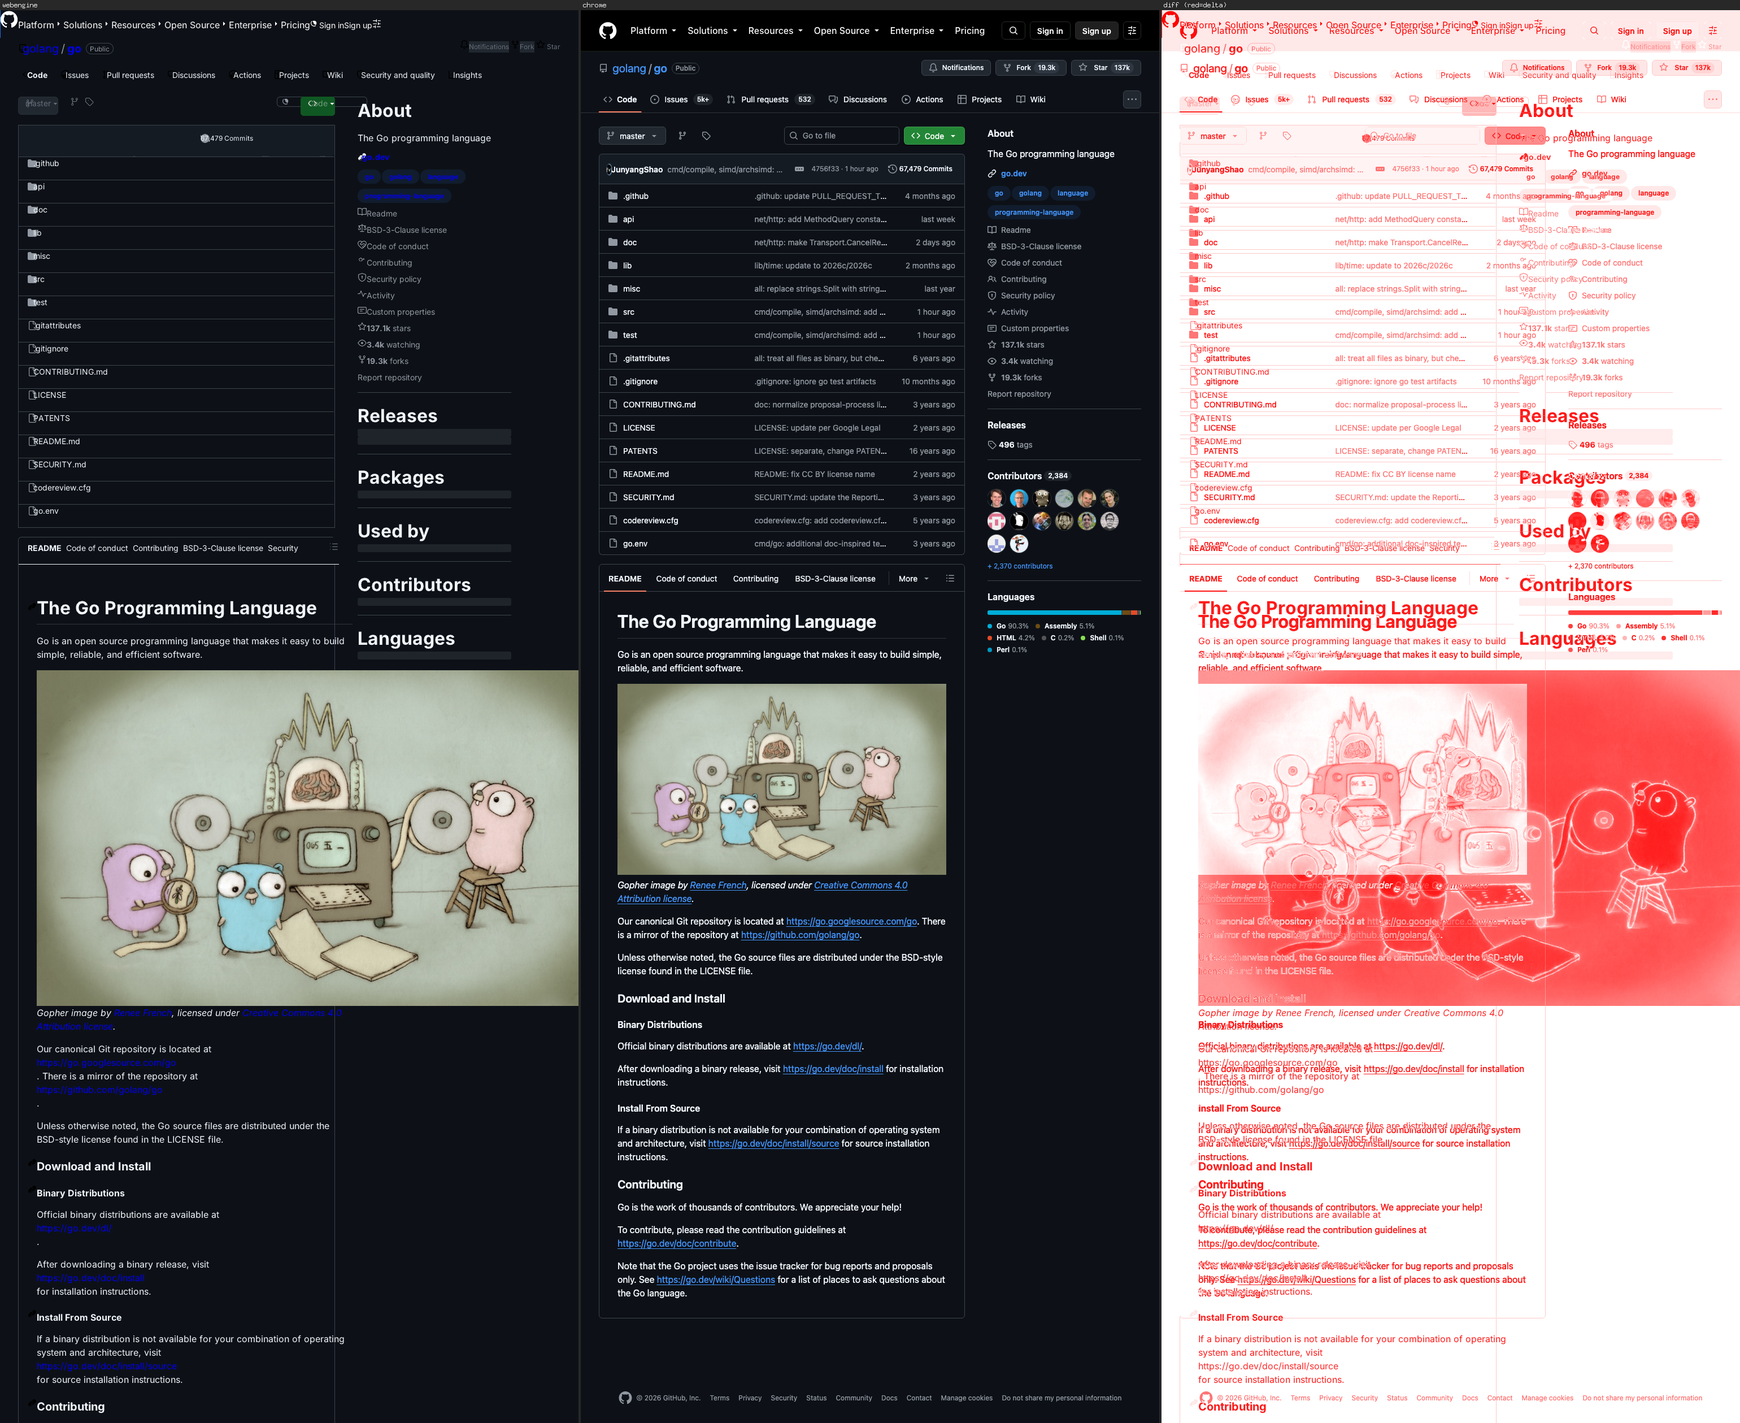
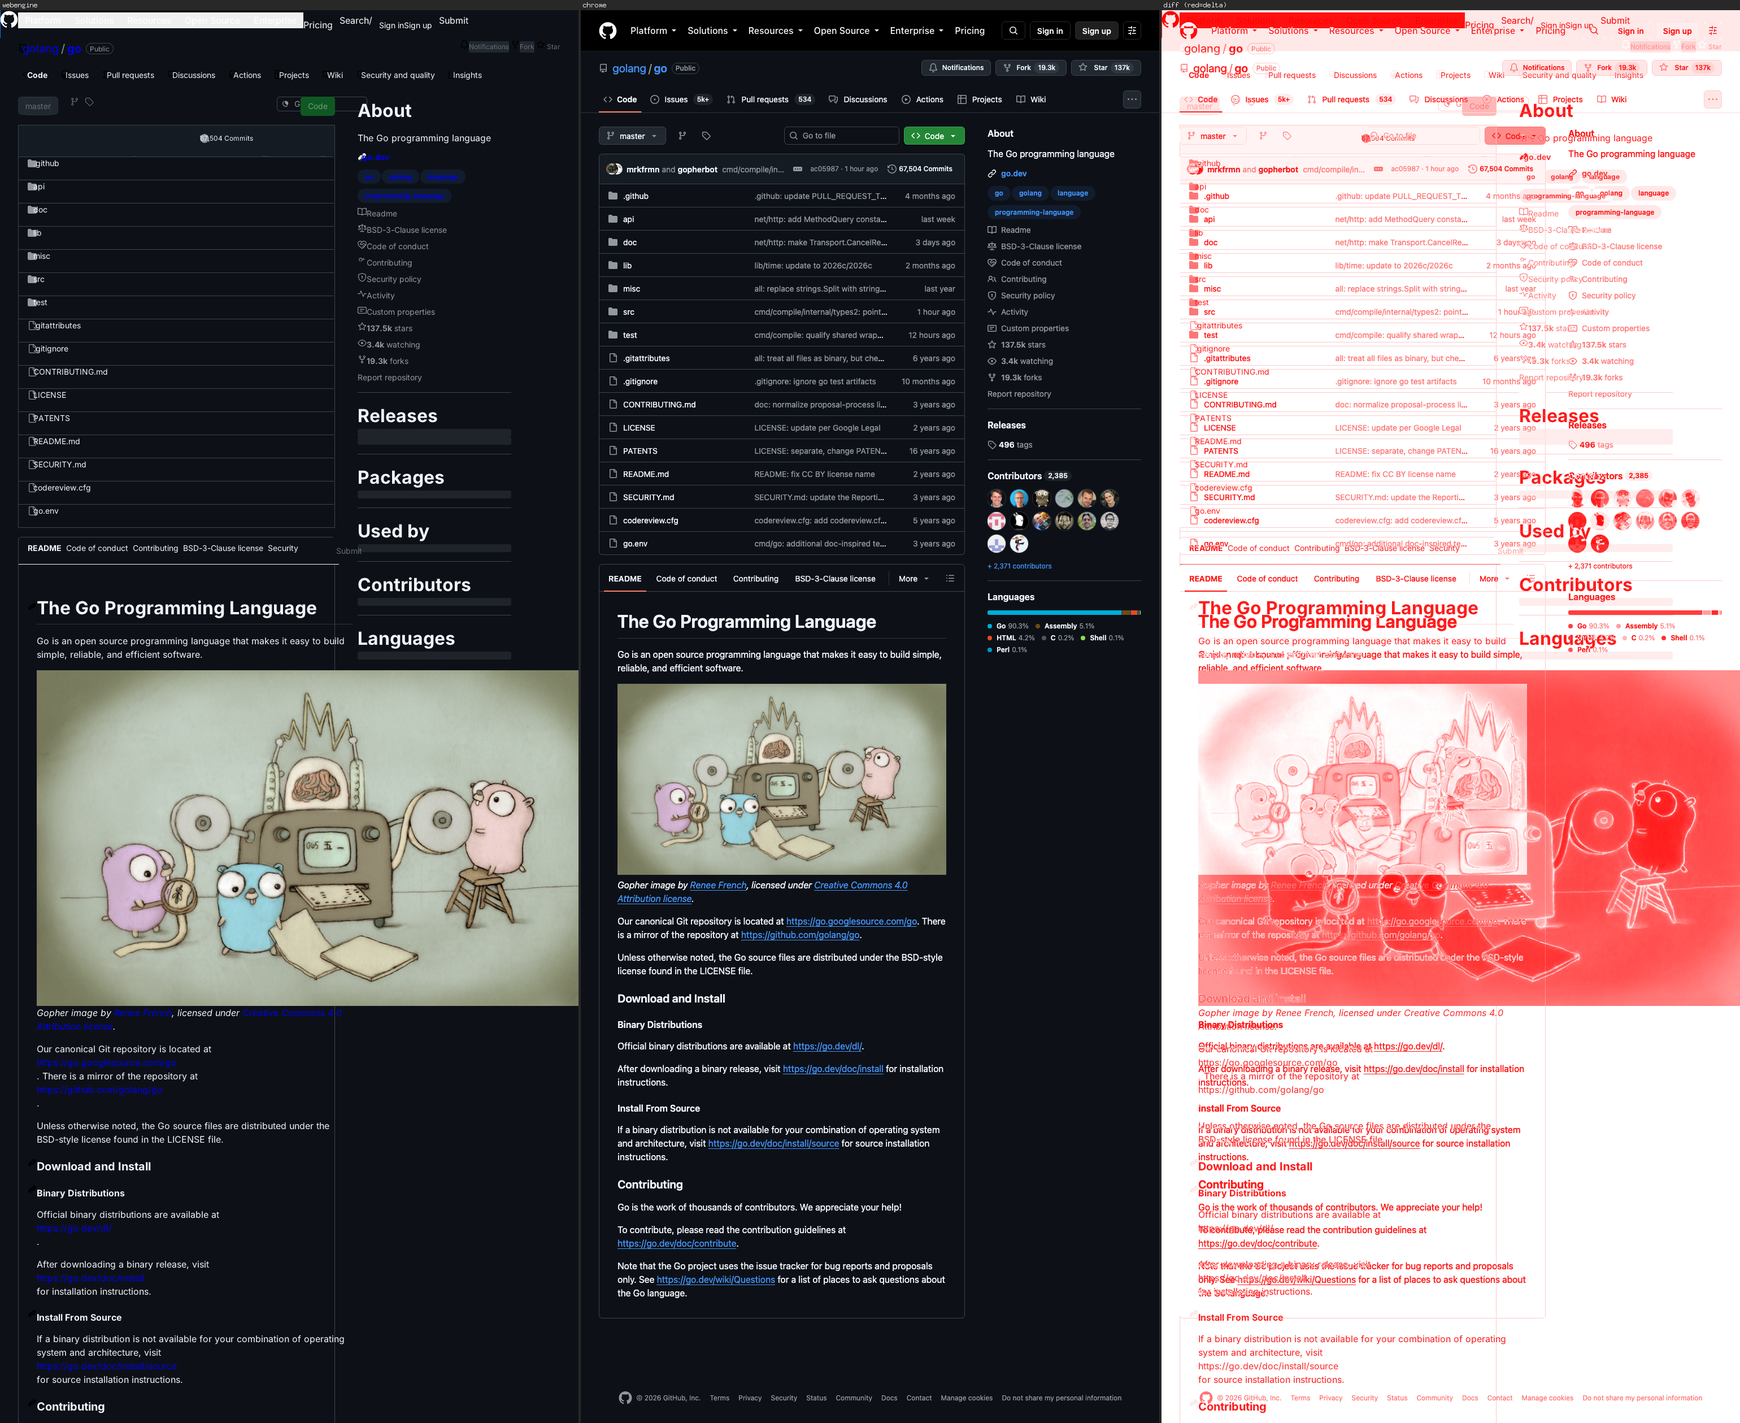
fix(paint): form control background/border from cascaded style (#98)
engine#95 drew every button/select's background+border from two
hardcoded package colors, completely ignoring the element's own
style. Any author reset (background:0 0;border:0 - a very common
pattern) was silently overridden by fake generic chrome.

Confirmed live: github.com's top nav items are literal <button>
elements styled invisibly by GitHub's own CSS, rendering as solid
gray pill buttons instead.

css/ua.go now gives button/select/input/textarea real UA-default
background-color+border (matching paint's old hardcoded values, so
an unstyled control looks the same). paint/paint.go's
paintFormControl reads Style.Background/.Border directly instead of
choosing between hardcoded constants - the same mechanism every
other element's background already uses.

github.com/golang/go: SSIM 0.531->0.532, pixdiff 32.9->32.8% (barely
moved - the header is a small fraction of a long page dominated by
font-rasterizer noise; the fix is broadly useful on any styled
button/select, not specific to this page).

diff --git a/paint/formcontrol_test.go b/paint/formcontrol_test.go
@@ -12,8 +12,20 @@ import (
 	"github.com/go-webengine/engine/layout"
 )
 
+// controlStyle mirrors what css/ua.go's real UA defaults now give a text-
+// like control (background-color:#ffffff; border:1px solid #767676) — paint
+// no longer supplies these itself, it reads them from the cascaded style
+// (an author reset like `background:0 0;border:0` must be honoured, see
+// TestPaintFormControlHonoursAuthorReset below), so a hand-built test style
+// needs to carry them explicitly to exercise the SAME visible-box contract
+// the old hardcoded-colour version tested.
 func controlStyle() *css.Style {
-	return &css.Style{FontFamily: css.Sans, FontSize: 14, FontWeight: 400, Color: css.Color{A: 255}}
+	return &css.Style{FontFamily: css.Sans, FontSize: 14, FontWeight: 400, Color: css.Color{A: 255},
+		Background: formFieldBg,
+		Border: css.Borders{
+			Top: css.BorderSide{Width: 1, Style: css.BorderSolid, Color: formBorder},
+		},
+	}
 }
 
 // paintControl lays out a single form-control InlineItem at (0,0) sized
@@ -22,9 +34,17 @@ func controlStyle() *css.Style {
 // pipeline (paint's own tests are pipeline-agnostic by convention).
 func paintControl(t *testing.T, n *dom.Node, w, h float64) *image.RGBA {
 	t.Helper()
+	return paintControlStyled(t, n, w, h, controlStyle())
+}
+
+// paintControlStyled is paintControl with an explicit style, for a test that
+// needs a specific cascaded Background/Border (e.g. a button's own default,
+// or an author reset) rather than controlStyle's plain text-field look.
+func paintControlStyled(t *testing.T, n *dom.Node, w, h float64, style *css.Style) *image.RGBA {
+	t.Helper()
 	dst := white(int(w)+20, int(h)+20)
 	item := &layout.InlineItem{
-		Node: n, FormControl: n, Style: controlStyle(),
+		Node: n, FormControl: n, Style: style,
 		Width: w, Ascent: h, LineHeight: h, X: 5, Y: 5,
 	}
 	box := &layout.Box{
@@ -57,16 +77,46 @@ func TestPaintFormControlDrawsBackgroundAndBorder(t *testing.T) {
 }
 
 // TestPaintFormControlButtonBackground covers the button-like kind's darker
-// background, distinguishing it visually from a plain text field.
+// background (css/ua.go's own default for button/select), distinguishing it
+// visually from a plain text field.
 func TestPaintFormControlButtonBackground(t *testing.T) {
 	n := elem("button", map[string]string{"id": "e"})
-	dst := paintControl(t, n, 80, 30)
+	style := &css.Style{FontFamily: css.Sans, FontSize: 14, FontWeight: 400, Color: css.Color{A: 255},
+		Background: formButtonBg,
+		Border:     css.Borders{Top: css.BorderSide{Width: 1, Style: css.BorderSolid, Color: formBorder}},
+	}
+	dst := paintControlStyled(t, n, 80, 30, style)
 	// Near the top, above where the centered "Submit" label's glyphs reach
 	// (the label always renders something — see formControlDisplayText's
 	// button fallback — so avoid sampling where an ascender could land).
 	inside := dst.RGBAAt(40, 9)
 	if got, want := (css.Color{R: inside.R, G: inside.G, B: inside.B, A: 255}), formButtonBg; got != want {
 		t.Errorf("button interior = %+v, want button background %+v", got, want)
+	}
+}
+
+// TestPaintFormControlHonoursAuthorReset covers a real regression: a
+// button/select/input's background+border used to be a HARDCODED colour
+// paint chose regardless of the element's own cascaded style, so an author
+// reset (`background:0 0;border:0` — confirmed live on github.com's own top
+// nav <button>s, styled to look like plain text links, not gray boxes) was
+// always overridden by fake generic chrome. A zero-alpha Background and a
+// BorderNone/zero-width Border (exactly what that reset cascades to) must
+// now paint NOTHING for the box itself — only the canvas underneath.
+func TestPaintFormControlHonoursAuthorReset(t *testing.T) {
+	n := elem("button", map[string]string{"id": "e"})
+	style := &css.Style{FontFamily: css.Sans, FontSize: 14, FontWeight: 400, Color: css.Color{A: 255}}
+	// Background and Border are the zero value here — exactly what
+	// `background:0 0;border:0` cascades to — deliberately, not an oversight.
+	dst := paintControlStyled(t, n, 80, 30, style)
+
+	edge := dst.RGBAAt(5, 5)
+	if got := (css.Color{R: edge.R, G: edge.G, B: edge.B, A: 255}); got == formBorder {
+		t.Errorf("edge = %+v, an author border:0 must not paint the UA border colour", got)
+	}
+	inside := dst.RGBAAt(40, 9)
+	if got := (css.Color{R: inside.R, G: inside.G, B: inside.B, A: 255}); got == formButtonBg {
+		t.Errorf("interior = %+v, an author background:0 must not paint the UA button colour", got)
 	}
 }
 

diff --git a/css/ua.go b/css/ua.go
@@ -23,7 +23,20 @@ var uaDescendantRules = ParseStylesheet(
 		// overlapping the page. An `open`-attributed <details> (or any author
 		// rule targeting its children) is unaffected — this selector simply
 		// never matches one.
-		"details:not([open]) > :not(summary) { display: none }\n")
+		"details:not([open]) > :not(summary) { display: none }\n" +
+			// <input>'s tag-level default (uaDeclarations, above) is the
+			// text-field look; these attribute-selector overrides narrow that
+			// for the subtypes that need something else. A button-like input
+			// gets the SAME grey button chrome a real <button>/<select> gets
+			// (attribute selectors outrank the bare-tag rule they override,
+			// same specificity ordering as any real stylesheet). Checkbox/
+			// radio get no generic background/border at all — paint's own
+			// checkbox-square renderer never consults Style.Background/Border
+			// for them, so a leftover white field-coloured value would only
+			// ever be a trap for some future consumer (e.g. a JS
+			// getComputedStyle) reading a colour that is never actually drawn.
+			"input[type=button], input[type=submit], input[type=reset] { background-color: #efefef }\n" +
+			"input[type=checkbox], input[type=radio] { background-color: transparent; border: 0 }\n")
 
 // uaDeclarations returns the user-agent default declarations for a tag, as
 // property:value pairs. These mirror a browser's default stylesheet for the
@@ -111,8 +124,37 @@ func uaDeclarations(tag string) []Declaration {
 	case "code", "kbd", "samp", "tt":
 		return []Declaration{{Property: "font-family", Value: "monospace"}}
 	case "span", "label", "abbr", "sup", "sub", "mark", "u", "s", "del", "ins",
-		"time", "q", "img", "button", "input", "select", "textarea":
+		"time", "q", "img":
 		return []Declaration{{Property: "display", Value: "inline"}}
+	case "button", "select":
+		// A real button/select has a visible UA-default background and border
+		// that author CSS very commonly resets (e.g. a nav bar's `<button>`
+		// styled to look like a plain text link) — this MUST be a real,
+		// author-overridable cascade value, not a hardcoded colour paint
+		// picks regardless of styling, or every such reset renders with a
+		// fake generic gray box instead of the invisible chrome the author
+		// asked for. Confirmed load-bearing live: github.com's top nav items
+		// are literal `<button>` elements with `background:0 0;border:0`
+		// (its own CSS, read directly) rendering as solid gray pills without
+		// this. Colours match paint's PRE-EXISTING hardcoded fallback
+		// (`formButtonBg`/`formBorder` in paint/paint.go) exactly, so an
+		// actually-unstyled control's appearance is unchanged — only a
+		// STYLED one now differs, correctly.
+		return []Declaration{{Property: "display", Value: "inline"},
+			{Property: "background-color", Value: "#efefef"},
+			{Property: "border", Value: "1px solid #767676"}}
+	case "input", "textarea":
+		// Same reasoning as button/select above; the default (white-ish
+		// field) UA look for a text-like control. <input type=checkbox/
+		// radio/button/submit/reset> are narrowed by the attribute-selector
+		// rules in uaDescendantRules below — checkbox/radio lose this
+		// background/border entirely (paint draws their own checked-state
+		// square and never consults Style.Background/Border for them), and
+		// button-like input types get the SAME grey button look as a real
+		// <button>.
+		return []Declaration{{Property: "display", Value: "inline"},
+			{Property: "background-color", Value: "#ffffff"},
+			{Property: "border", Value: "1px solid #767676"}}
 	case "head", "title", "style", "script", "meta", "link", "base", "noscript":
 		return []Declaration{{Property: "display", Value: "none"}}
 	case "option":

diff --git a/paint/paint.go b/paint/paint.go
@@ -784,12 +784,34 @@ func paintFormControl(dst *image.RGBA, pp *painter.PixelPainter, it *layout.Inli
 		return
 	}
 
-	bg := formFieldBg
+	// The background/border PAINTED here comes from the element's own cascaded
+	// style (css/ua.go gives button/select/input/textarea a real UA-default
+	// background-color+border, exactly like a real browser) rather than a
+	// hardcoded colour — so an author reset (`background:0 0;border:0`, the
+	// exact rule github.com's own top-nav <button>s use to look like plain
+	// text links) is honoured instead of overridden by fake generic chrome.
+	// formFieldBg/formButtonBg/formBorder below are only the defensive
+	// fallback for the pathological case of a nil Style (never real for an
+	// actual page element, but paintControl's own unit-test helper can
+	// construct one).
+	bg, borderCol, drawBorder := formFieldBg, formBorder, true
 	if kind == controlButtonLike || kind == controlSelect {
 		bg = formButtonBg
 	}
-	fillRectClipped(pp, r, bg, clip)
-	strokeRect1px(pp, r, formBorder, clip)
+	if it.Style != nil {
+		bg = it.Style.Background
+		side := it.Style.Border.Top
+		drawBorder = side.Width > 0 && side.Style != css.BorderNone && side.Color.A > 0
+		if drawBorder {
+			borderCol = side.Color
+		}
+	}
+	if bg.A > 0 {
+		fillRectClipped(pp, r, bg, clip)
+	}
+	if drawBorder {
+		strokeRect1px(pp, r, borderCol, clip)
+	}
 
 	text, muted := formControlDisplayText(n)
 	if text == "" || it.Style == nil {

diff --git a/bench/REPORT.md b/bench/REPORT.md
@@ -2,7 +2,7 @@
 
 <!-- AUTO-GENERATED: this header, the results table and the montage list are regenerated by `go run ./cmd/compare`. The hand-written analysis below the BEGIN ANALYSIS marker is preserved across re-runs. -->
 
-**Generated:** 2026-09-03 08:59 UTC  
+**Generated:** 2026-09-03 14:34 UTC  
 **Viewport:** 1024×768, device-scale 1  
 **Timing:** median of N=5 runs after 1 warmup, wall-clock incl. network fetch  
 **Chrome:** `/Applications/Google Chrome.app/Contents/MacOS/Google Chrome`  
@@ -11,16 +11,16 @@
 <!-- BEGIN RESULTS TABLE -->
 | URL | SSIM | pixdiff % | webengine ms | chrome ms | speed× | region | status |
 |-----|-----:|----------:|-------------:|----------:|-------:|:------:|:------:|
-| example.com/ | 0.954 | 1.5 | 39.0 | 1759.6 | 45.15 | 1024×768 | ok |
-| en.wikipedia.org/wiki/Go_(programming_language) | 0.422 | 22.4 | 1488.9 | 4179.1 | 2.81 | 1024×2500 | ok |
-| pkg.go.dev/net/http | 0.620 | 35.2 | 3116.3 | 3949.4 | 1.27 | 1024×2500 | ok |
-| go.dev/blog/ | 0.679 | 28.0 | 3125.4 | 2779.0 | 0.89 | 1024×1597 | ok |
-| react.dev/ | 0.603 | 47.6 | 1469.4 | 2555.6 | 1.74 | 1024×2500 | ok |
-| news.ycombinator.com/ | 0.598 | 13.0 | 1327.8 | 2488.3 | 1.87 | 1024×1214 | ok |
-| developer.mozilla.org/en-US/docs/Web/CSS | 0.609 | 17.8 | 336.7 | 1947.7 | 5.78 | 1009×2500 | ok |
-| github.com/golang/go | 0.531 | 32.9 | 1701.0 | 2203.5 | 1.30 | 1024×2500 | ok |
-| tailwindcss.com/ | 0.650 | 15.0 | 3098.5 | 2282.8 | 0.74 | 1024×2500 | ok |
-| caniuse.com/ | 0.654 | 21.7 | 3565.8 | 3787.7 | 1.06 | 1024×1522 | ok |
+| example.com/ | 0.954 | 1.5 | 57.3 | 1860.4 | 32.46 | 1024×768 | ok |
+| en.wikipedia.org/wiki/Go_(programming_language) | 0.422 | 22.4 | 1921.6 | 5146.4 | 2.68 | 1024×2500 | ok |
+| pkg.go.dev/net/http | 0.623 | 34.5 | 3791.5 | 4700.5 | 1.24 | 1024×2500 | ok |
+| go.dev/blog/ | 0.679 | 28.0 | 3803.3 | 2944.4 | 0.77 | 1024×1597 | ok |
+| react.dev/ | 0.605 | 47.6 | 1805.1 | 2940.7 | 1.63 | 1024×2500 | ok |
+| news.ycombinator.com/ | 0.598 | 13.0 | 1382.3 | 2567.7 | 1.86 | 1024×1214 | ok |
+| developer.mozilla.org/en-US/docs/Web/CSS | 0.609 | 17.8 | 479.9 | 2057.0 | 4.29 | 1009×2500 | ok |
+| github.com/golang/go | 0.532 | 32.8 | 2367.8 | 2434.4 | 1.03 | 1024×2500 | ok |
+| tailwindcss.com/ | 0.649 | 15.1 | 4091.4 | 3020.5 | 0.74 | 1024×2500 | ok |
+| caniuse.com/ | 0.650 | 21.9 | 4325.2 | 4048.5 | 0.94 | 1024×1522 | ok |
 <!-- END RESULTS TABLE -->
 
 Speed× is `chrome_ms / webengine_ms`: >1 means webengine is faster.
@@ -68,6 +68,26 @@ Speed× is `chrome_ms / webengine_ms`: >1 means webengine is faster.
 ![caniuse.com/](out/caniuse.com.png)
 
 <!-- BEGIN ANALYSIS (hand-written, preserved across re-runs) -->
+
+## Honest analysis — 2026-09-03 (cont.): a form control's paint colour now comes from its own cascaded style (engine#98)
+
+**github.com/golang/go: SSIM 0.531→0.532, pixdiff 32.9%→32.8%** — barely
+moved, honestly reported. github.com's top nav ("Platform", "Solutions", …)
+are literal `<button>` elements GitHub styles with `background:0 0;
+border:0` to look like plain text links, but rendered as solid grey pill
+buttons: engine#95's form-control paint step drew every button/select's
+background/border from two hardcoded package colours, completely ignoring
+the element's own cascaded style — so an author's reset was always
+overridden by fake generic chrome. Fixed at the source: `css/ua.go` now
+gives `button`/`select`/`input`/`textarea` a REAL UA-default background/
+border (matching paint's old hardcoded values exactly, so unstyled controls
+look identical), and `paint/paint.go` reads `Style.Background`/`.Border`
+directly instead of choosing between hardcoded constants — the same
+mechanism every other element's background already uses. Verified live: the
+grey pills are gone. The aggregate score barely moving is expected, not a
+sign the fix did nothing — the header is a small fraction of a long,
+text-dense page, and the fix is broadly useful on any page with styled
+buttons/selects, not specific to this one. Full account in FIDELITY.md.
 
 ## Honest analysis — 2026-09-03 (cont.): `<select>` sizes to its widest option and shows the correct one (engine#96)
 

diff --git a/FIDELITY.md b/FIDELITY.md
@@ -18,6 +18,63 @@ The committed PNGs under `testdata/renders/` back every claim here. Reproduce
 them with the commands at the bottom. The measured-vs-Chrome numbers live in
 [`bench/REPORT.md`](bench/REPORT.md).
 
+## 2026-09-03 (cont.) — a form control's background/border now comes from its own cascaded style, not a hardcoded colour (engine#98)
+
+github.com/golang/go's top navigation ("Platform", "Solutions", "Resources",
+"Open Source", "Enterprise") rendered as solid grey pill buttons — but a raw
+fetch of the real page shows these are literal `<button>` elements styled by
+GitHub's own CSS with `background:0 0;border:0`, meant to look like plain
+text links with a dropdown caret, not visible buttons at all.
+
+Root cause: engine#95's new form-control paint step (`paintFormControl`)
+drew every button/select's background and border from two flat, hardcoded
+package-level colours (`formButtonBg`, `formBorder`), completely independent
+of `it.Style` — so ANY author reset of a control's default appearance (an
+extremely common pattern; virtually every professionally-designed site
+restyles its buttons rather than accepting the raw UA look) was silently
+overridden by fake generic chrome. This is a broadly-applicable regression,
+not specific to this one page's header.
+
+Fixed at the source rather than special-casing paint: `css/ua.go` never gave
+`button`/`select`/`input`/`textarea` a background-color or border UA default
+at all (only `display:inline`) — so the cascade had NOTHING for an author
+rule to actually override; `Style.Background`/`Style.Border` were always
+empty/transparent for these tags regardless of styling, which is why paint
+had to hardcode its own colours in the first place. Added real UA defaults
+(matching paint's own prior hardcoded values exactly, so an unstyled
+control's appearance is unchanged): `button`/`select` get a light-grey
+background + grey border, `input`/`textarea` get white + grey border,
+narrowed by two new `uaDescendantRules` attribute-selector overrides —
+`input[type=button/submit/reset]` gets the button look, `input[type=
+checkbox/radio]` gets no generic background/border at all (paint's own
+checkbox-square renderer never consults these fields for them). `paint/
+paint.go`'s `paintFormControl` now reads `it.Style.Background`/`.Border`
+directly instead of choosing between the two hardcoded constants, painting
+nothing for a zero-alpha background or a `border:0`/`border-style:none`
+side — exactly the mechanism every other element's background/border
+already uses in this engine, just newly extended to form controls.
+
+**Verified live: github.com's nav items no longer render as grey pills.**
+Measured: github.com/golang/go SSIM 0.531→0.532, pixdiff 32.9%→32.8% —
+barely moved in the aggregate, honestly reported rather than oversold: the
+fixed header is a small fraction of a long (2989px), text-dense page whose
+diff is dominated by ordinary font-rasteriser variance, the same category of
+noise already documented for Wikipedia and several other pages this
+session. The fix's real value is general (any styled button/select/input on
+ANY page, not just this one), independently of this page's own number.
+
+New regression tests confirmed to fail against engine#95's original
+hardcoded-colour implementation before this fix (reverted via a temporary
+`git checkout` of `css/ua.go`/`paint/paint.go` covering just this round's
+diff): `TestPaintFormControlHonoursAuthorReset` (a zero-alpha background and
+a zero-width border must paint nothing, not the UA fallback colours) is the
+core new case; `TestPaintFormControlDrawsBackgroundAndBorder` and
+`TestPaintFormControlButtonBackground` were updated to pass an explicit,
+realistic cascaded style (matching what `css/ua.go` now actually produces)
+instead of relying on paint's own hardcoded fallback, so they keep testing
+the same visible-box contract through the new mechanism rather than around
+it.
+
 ## 2026-09-03 (cont.) — `<select>` sizes to its widest option and shows the correct one, matching the real cross-engine pattern (engine#96)
 
 Round engine#94 (below) fixed pkg.go.dev's garbled index block by hiding
